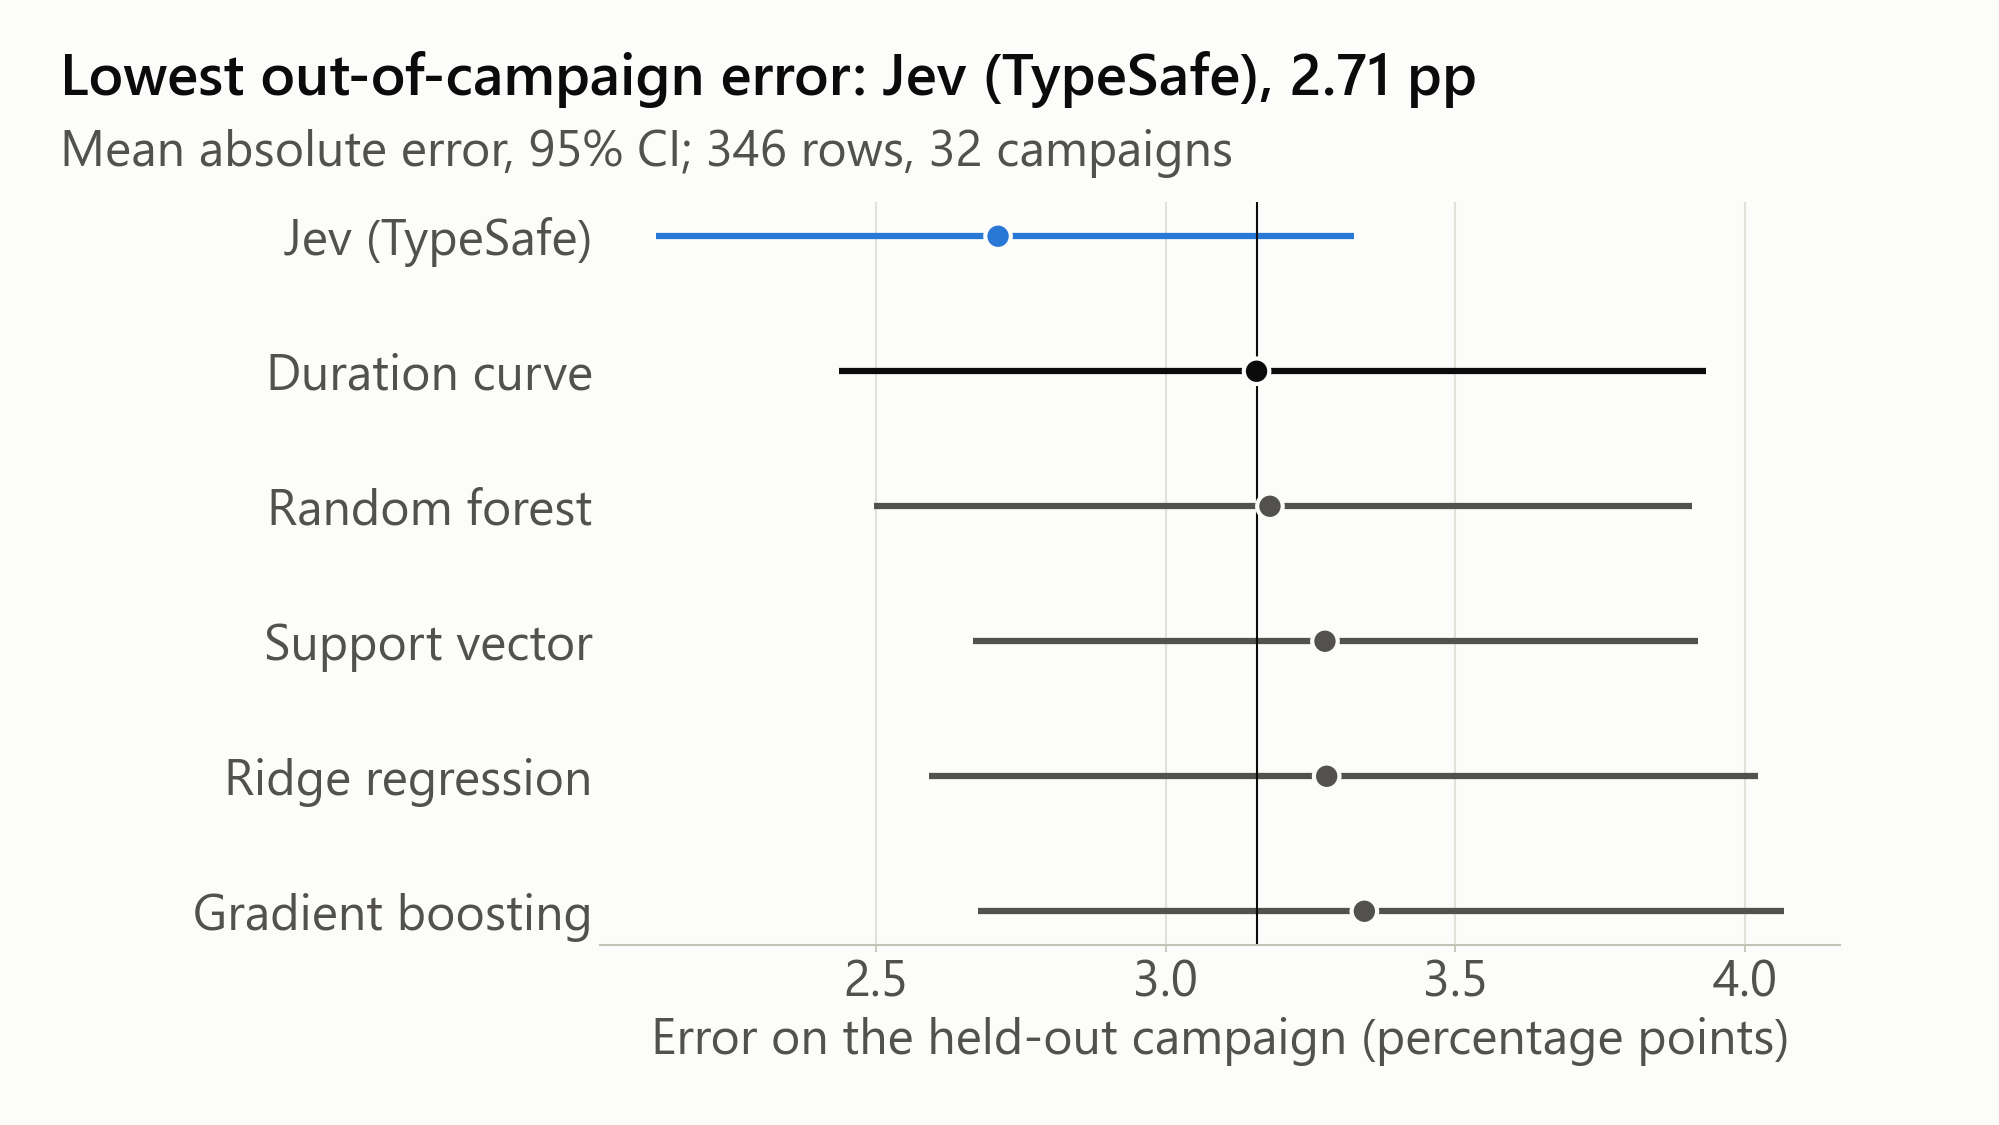
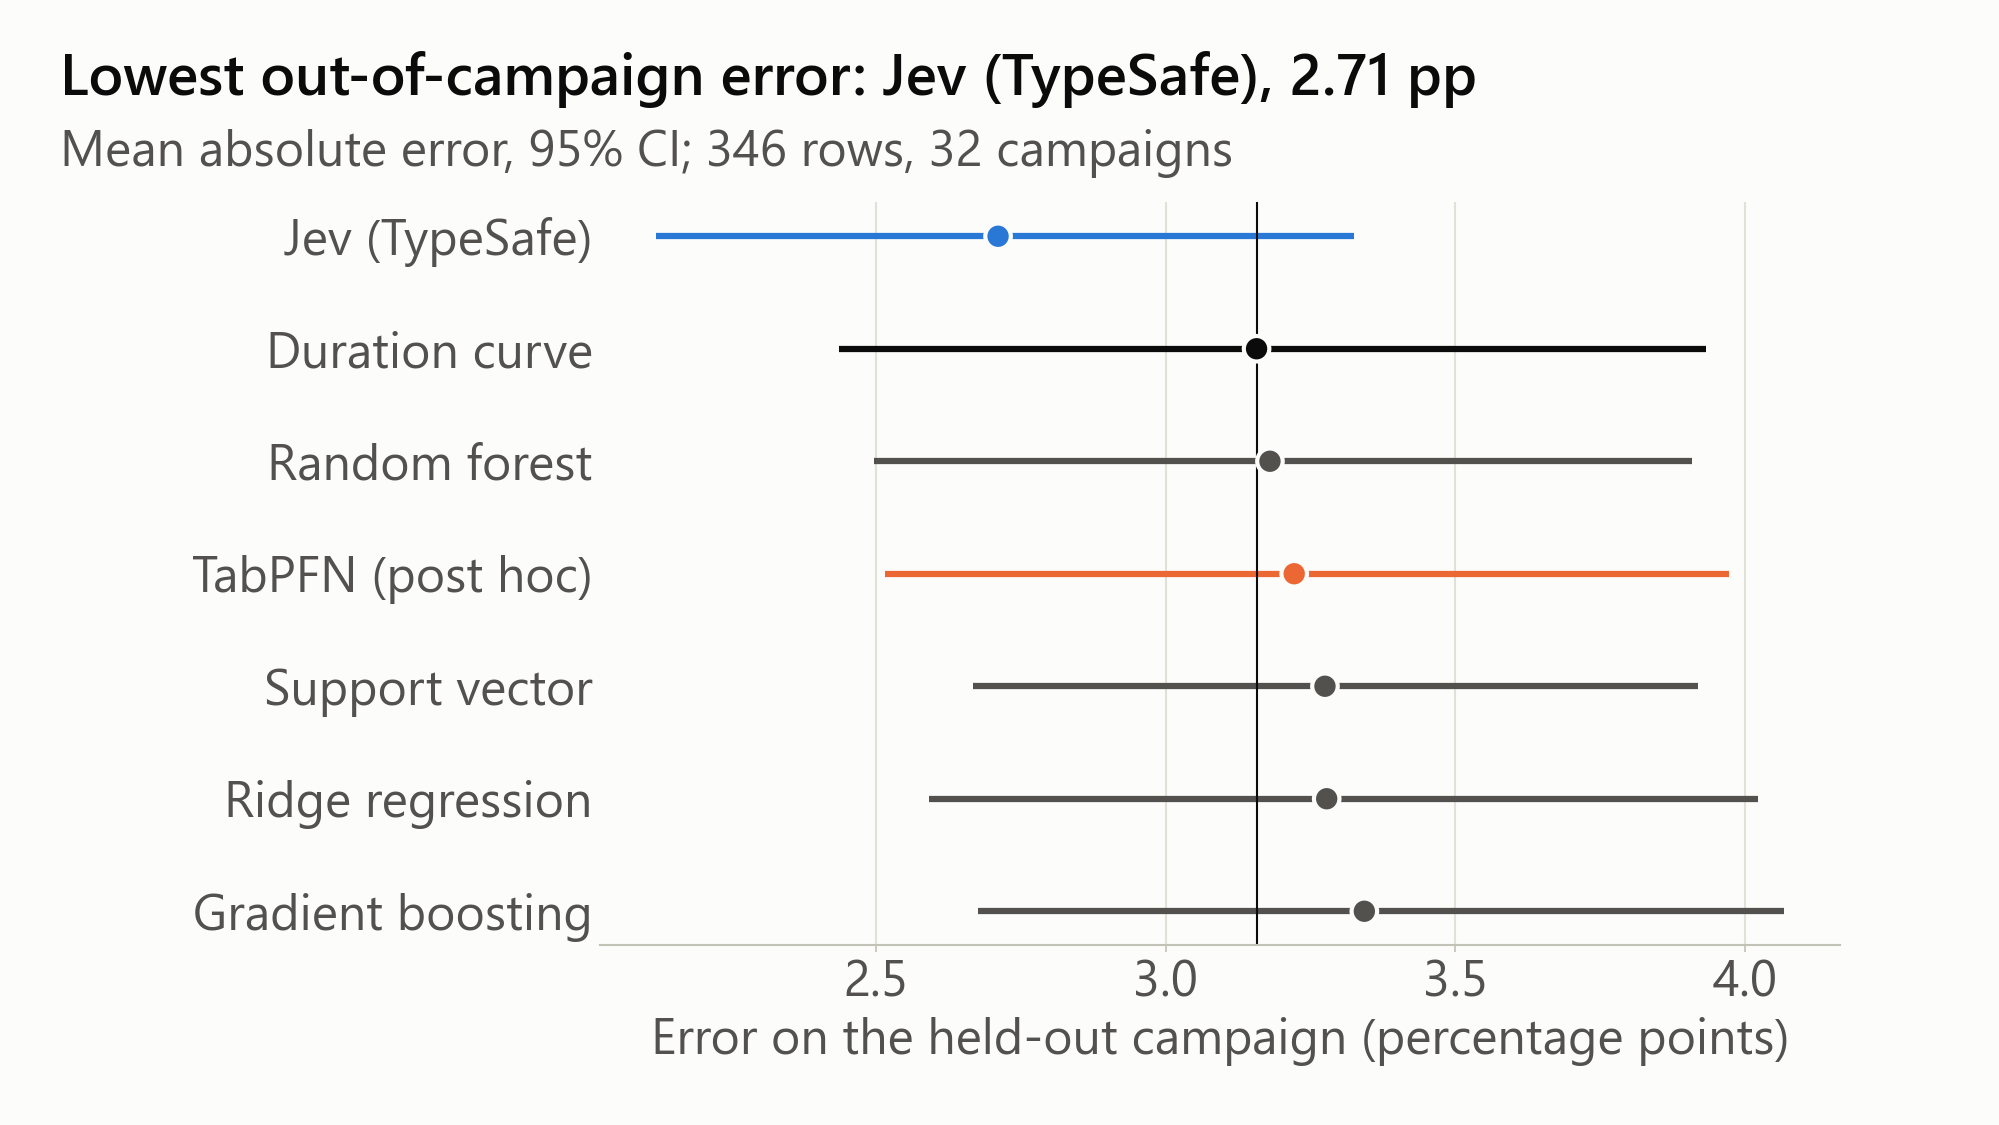
feat: put the post-hoc TabPFN family on slide F5
F5 shows every model's out-of-campaign error against the duration curve, and
TabPFN was missing from it. It now sits at 3.22 pp, read from its own results
file, labelled post hoc and drawn in its own colour so it is not mistaken for one
of the four declared families. make figures depends on the new results file.

diff --git a/framework/plot_figures.py b/framework/plot_figures.py
@@ -60,6 +60,7 @@ MODEL_LABELS = {
     "random_forest": "Random forest",
     "svr": "Support vector",
     "gradient_boosting": "Gradient boosting",
+    "tabpfn": "TabPFN (post hoc)",
     "jev": "Jev (TypeSafe)",
 }
 
@@ -152,6 +153,7 @@ def load_inputs(config: dict[str, Any] | None = None) -> dict[str, Any]:
         "ranking": pd.read_csv(RESULTS / "tier1_muscle_ranking.csv"),
         "baseline": _json("baseline.json"),
         "models": pd.read_csv(RESULTS / "model_comparison.csv"),
+        "tabpfn": _json("tabpfn_comparison.json"),
         "forecast": _json("forecast.json"),
         "predictions": pd.read_csv(RESULTS / "forecast_predictions.csv", dtype={"row_id": str}),
         "ablation": _json("forecast_ablation.json"),
@@ -427,6 +429,10 @@ def _model_rows(inputs: dict[str, Any]) -> pd.DataFrame:
             continue
         rows.append({"model": row["model"], "mae": row["loco_mae_pp"],
                      "low": row["ci95_low"], "high": row["ci95_high"]})
+    # The post-hoc fifth family, from its own results file and its own environment.
+    tabpfn = inputs["tabpfn"]["models"]["tabpfn"]
+    rows.append({"model": "tabpfn", "mae": tabpfn["mae"],
+                 "low": tabpfn["ci95"]["low"], "high": tabpfn["ci95"]["high"]})
     jev = inputs["forecast"]["arms"]["without_history"]["models"]["jev"]
     rows.append({"model": "jev", "mae": jev["mae"],
                  "low": jev["mae_ci95"]["low"], "high": jev["mae_ci95"]["high"]})
@@ -447,8 +453,8 @@ def f5_models(inputs: dict[str, Any]) -> plt.Figure:
     )
     axis = figure.add_axes([0.30, 0.16, 0.62, 0.66])
     positions = np.arange(len(rows))
-    colours = [ACCENT if model == "jev" else (INK if model == "duration_only" else INK_2)
-               for model in rows["model"]]
+    special = {"jev": ACCENT, "duration_only": INK, "tabpfn": SERIES[1]}
+    colours = [special.get(model, INK_2) for model in rows["model"]]
     axis.hlines(positions, rows["low"], rows["high"], colors=colours, linewidth=3)
     axis.scatter(rows["mae"], positions, s=150, c=colours, edgecolors=SURFACE, linewidths=2,
                  zorder=3)

diff --git a/framework/tests/test_figures.py b/framework/tests/test_figures.py
@@ -136,6 +136,30 @@ def test_the_model_figure_shows_every_model_and_a_line_at_the_baseline() -> None
     assert any(abs(line.get_xdata()[0] - baseline) < 1e-9 for line in vertical)
 
 
+def test_the_model_figure_adds_tabpfn_as_post_hoc_in_its_own_colour() -> None:
+    """TabPFN was added after the null result: it sits on F5 at its own error, labelled post hoc
+    and coloured apart from the four declared families, so nobody reads it as one of them."""
+    import json
+
+    record = json.loads((REPO_ROOT / "results" / "tabpfn_comparison.json").read_text(encoding="utf-8"))
+    tabpfn_mae = record["models"]["tabpfn"]["mae"]
+    forest_mae = INPUTS["models"].set_index("model").loc["random_forest", "loco_mae_pp"]
+
+    import matplotlib.collections
+
+    axis = FIGURES["F5_models"].axes[0]
+    points = next(c for c in axis.collections if isinstance(c, matplotlib.collections.PathCollection))
+    offsets = points.get_offsets()
+    colours = points.get_facecolors()
+    labels = {tick.get_loc(): tick.label1.get_text() for tick in axis.yaxis.get_major_ticks()}
+
+    at_tabpfn = [i for i, (x, _) in enumerate(offsets) if abs(x - tabpfn_mae) < 1e-9]
+    at_forest = [i for i, (x, _) in enumerate(offsets) if abs(x - forest_mae) < 1e-9]
+    assert len(at_tabpfn) == 1, "TabPFN must be drawn exactly once, at its own error"
+    assert labels[offsets[at_tabpfn[0]][1]] == "TabPFN (post hoc)"
+    assert not mcolors.same_color(colours[at_tabpfn[0]], colours[at_forest[0]])
+
+
 def test_the_framework_diagram_names_the_three_tiers() -> None:
     text = _joined(FIGURES["F4_framework"])
     for stage in ("Tier 1", "Tier 2", "Tier 3", "leave-one-campaign-out"):
